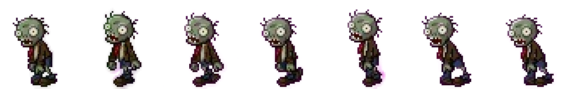
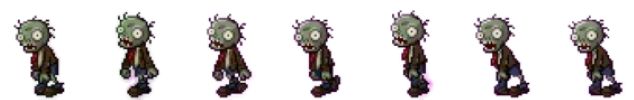
some changes

diff --git a/PVZ/Game.cpp b/PVZ/Game.cpp
@@ -120,15 +120,15 @@ void Game::Start_Game()
 			game.dropToGrid(window, ptr, money);
 			//peaShooter.DrawPeaShooter(window);
 			normal.drawZombie(window);
-			football.drawZombie(window);
+			//football.drawZombie(window);
 			//football.moveZombie(ptr);
 			//football.drawZombie(window);
 			//flying.drawZombie(window);
 			//dancing.drawZombie(window);
 			//dolphin.drawZombie(window);
-			//normal.moveZombie(ptr);
+			normal.moveZombie(ptr);
 			//sp.DrawSnowPea(window);
-			football.moveZombie(ptr);
+			//football.moveZombie(ptr);
 			//flying.moveZombie();
 			//dancing.moveZombie();
 			//dolphin.moveZombie();
@@ -136,8 +136,8 @@ void Game::Start_Game()
 			// Drawing Sun
 			//bomb.DrawCherryBomb(window);
 			sun.DrawSun(window, money);
-			nutty.drawPlant(window);
-			nutty.Action(window);
+			//nutty.drawPlant(window);
+			//nutty.Action(window);
 			window.draw(text);
 			window.setSize(sf::Vector2u(1100, 680));
 			for (int i = 0; i < ptr.GetSize(); i++) {

diff --git a/PVZ/NormalZombie.h b/PVZ/NormalZombie.h
@@ -3,21 +3,7 @@
 #include "Animation.h"
 
 class NormalZombie :public Zombie {
-	Animation* animate;
+
 public:
-	NormalZombie()
-	{
-		animate = nullptr;
-		srand((unsigned)time(0));
-		this->speed = 5;
-		this->damage = 5;
-		this->texture.loadFromFile("../Images/Zombie2.png");
-		this->sprite.setTexture(this->texture);
-		sprite.setTextureRect(IntRect(0, 0, texture.getSize().x / 8, texture.getSize().y / 1));
-		this->exists = true;
-		this->position.SetX(1010);
-		this->position.SetY((550 - (rand() % 5) * 110));
-		this->position.SetY(200);
-		
-	}
+	NormalZombie();
 };

diff --git a/PVZ/DancingZombie.h b/PVZ/DancingZombie.h
@@ -3,19 +3,5 @@
 
 class DancingZombie :public Zombie {
 public:
-	DancingZombie()
-	{
-		srand((unsigned)time(0));
-		rand();
-		rand();
-		rand();
-		this->speed = 7.5;
-		this->damage = 5;
-		this->texture.loadFromFile("../Images/Zombie2.png");
-		this->sprite.setTexture(this->texture);
-		sprite.setTextureRect(IntRect(0, 0, texture.getSize().x / 8, texture.getSize().y / 1));
-		this->exists = true;
-		this->position.SetX(700);
-		this->position.SetY((550 - (rand() % 5) * 110));
-	}
+	DancingZombie();
 };

diff --git a/PVZ/DancingZombie.cpp b/PVZ/DancingZombie.cpp
@@ -1,0 +1,16 @@
+#include "DancingZombie.h"
+
+DancingZombie::DancingZombie() {
+	srand((unsigned)time(0));
+	rand();
+	rand();
+	rand();
+	this->speed = 7.5;
+	this->damage = 5;
+	this->texture.loadFromFile("../Images/Zombie2.png");
+	this->sprite.setTexture(this->texture);
+	sprite.setTextureRect(IntRect(0, 0, texture.getSize().x / 8, texture.getSize().y / 1));
+	this->exists = true;
+	this->position.SetX(700);
+	this->position.SetY((550 - (rand() % 5) * 110));
+}

diff --git a/PVZ/NormalZombie.cpp b/PVZ/NormalZombie.cpp
@@ -1,0 +1,15 @@
+#include "NormalZombie.h"
+
+NormalZombie::NormalZombie() {
+	srand((unsigned)time(0));
+	this->speed = 2;
+	this->damage = 5;
+	this->texture.loadFromFile("../Images/Zombie2.png");
+	this->animate = new Animation;
+	this->animate->SetSheet(0.125, 5, texture, 7, 1);
+	this->exists = true;
+	this->position.SetX(1010);
+	this->position.SetY((550 - (rand() % 5) * 110));
+	this->position.SetY(200);
+
+}

diff --git a/PVZ/Zombies.h b/PVZ/Zombies.h
@@ -47,8 +47,8 @@ public:
 	}
 	virtual void drawZombie(sf::RenderWindow& window)
 	{
-		this->sprite.setPosition(this->position.GetX(), this->position.GetY());
-		window.draw(this->sprite);
+		this->animate->Update();
+		this->animate->DrawAnimation(window, this->position);
 	}
 	
 	Coordinates GetPosition()const { return this->position; }
